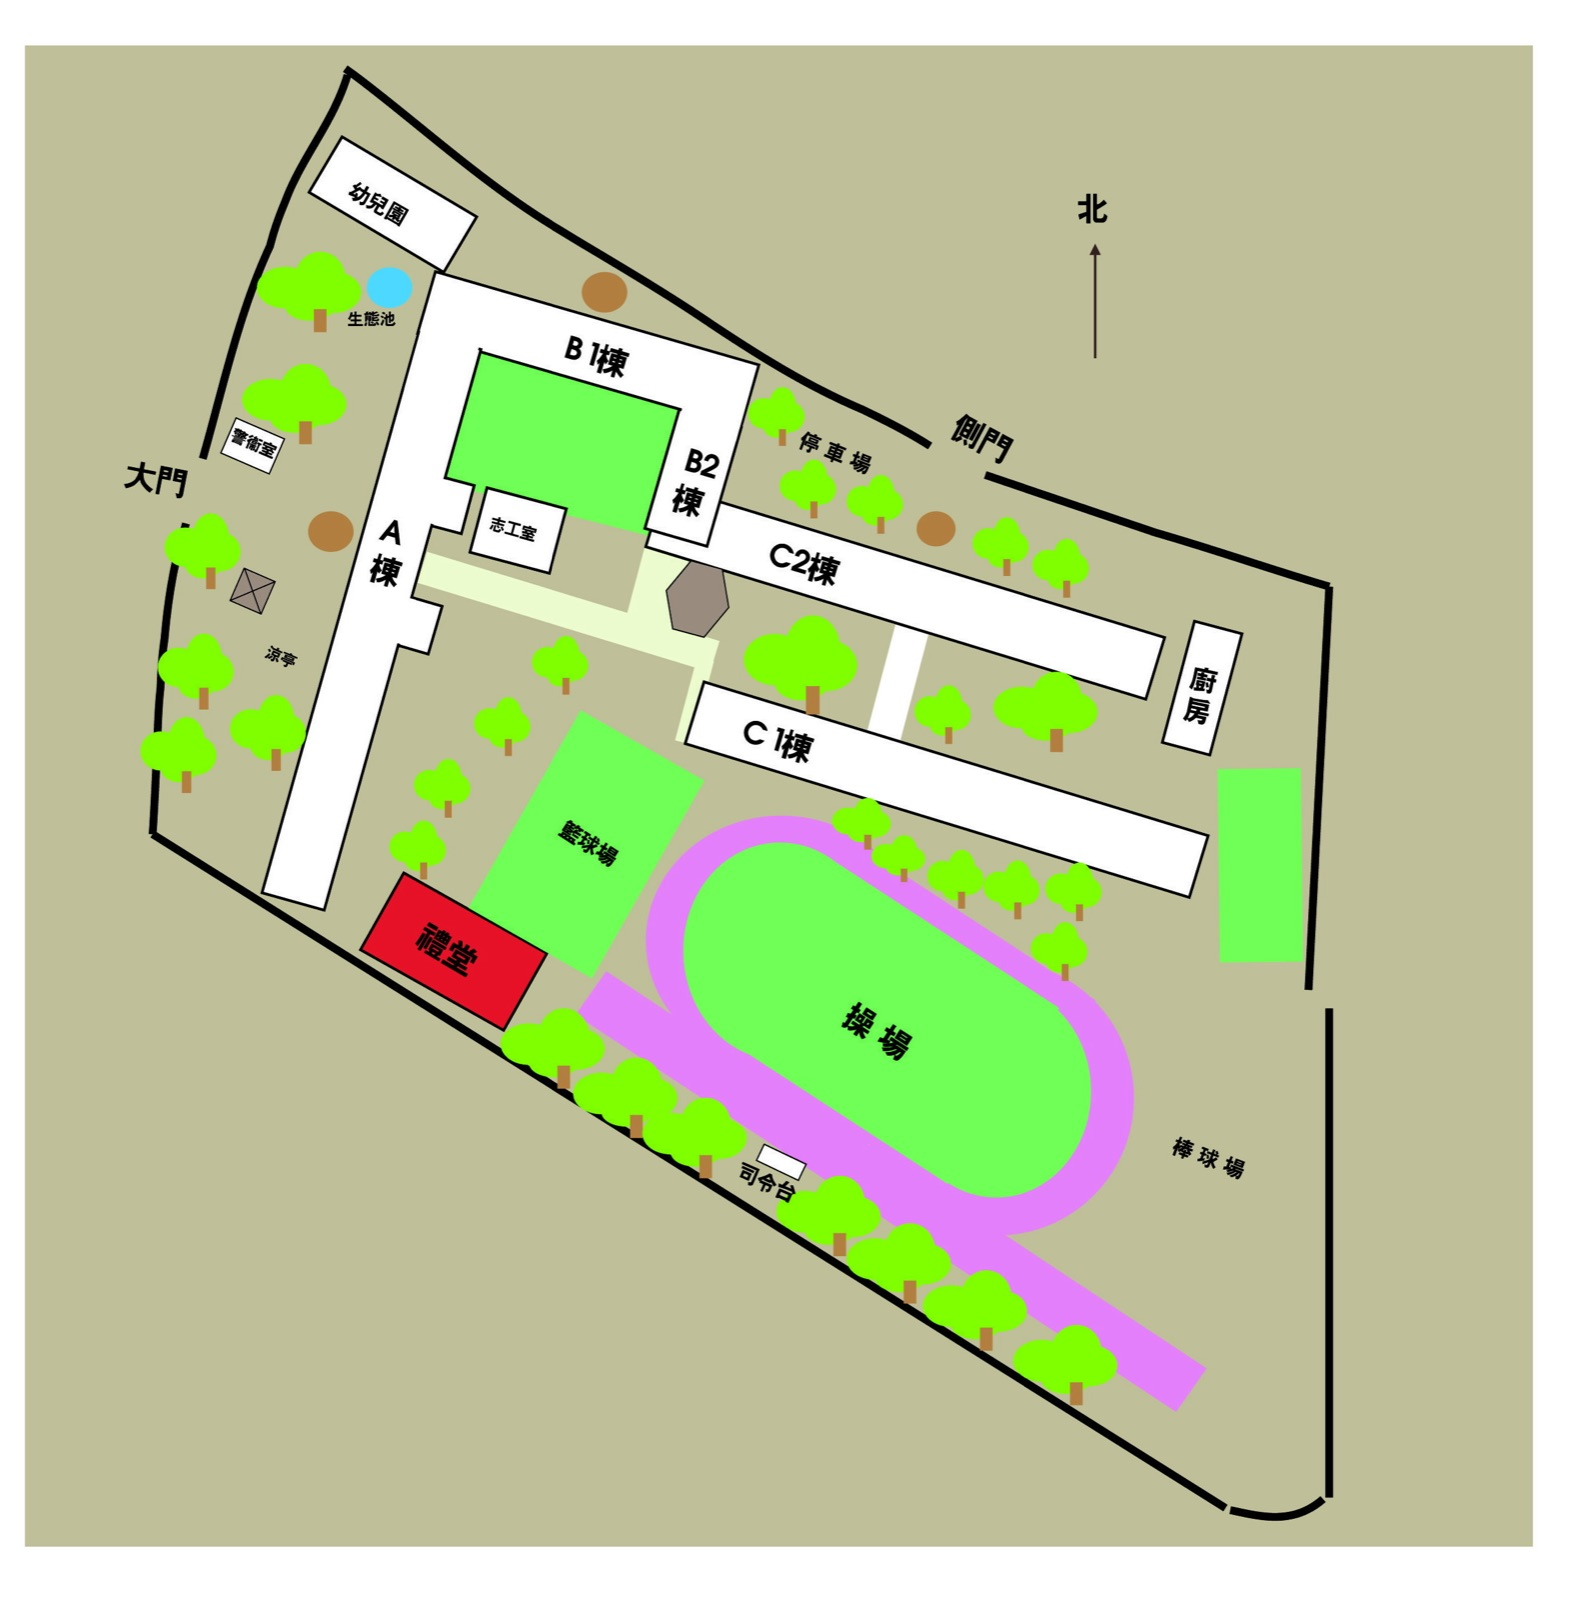
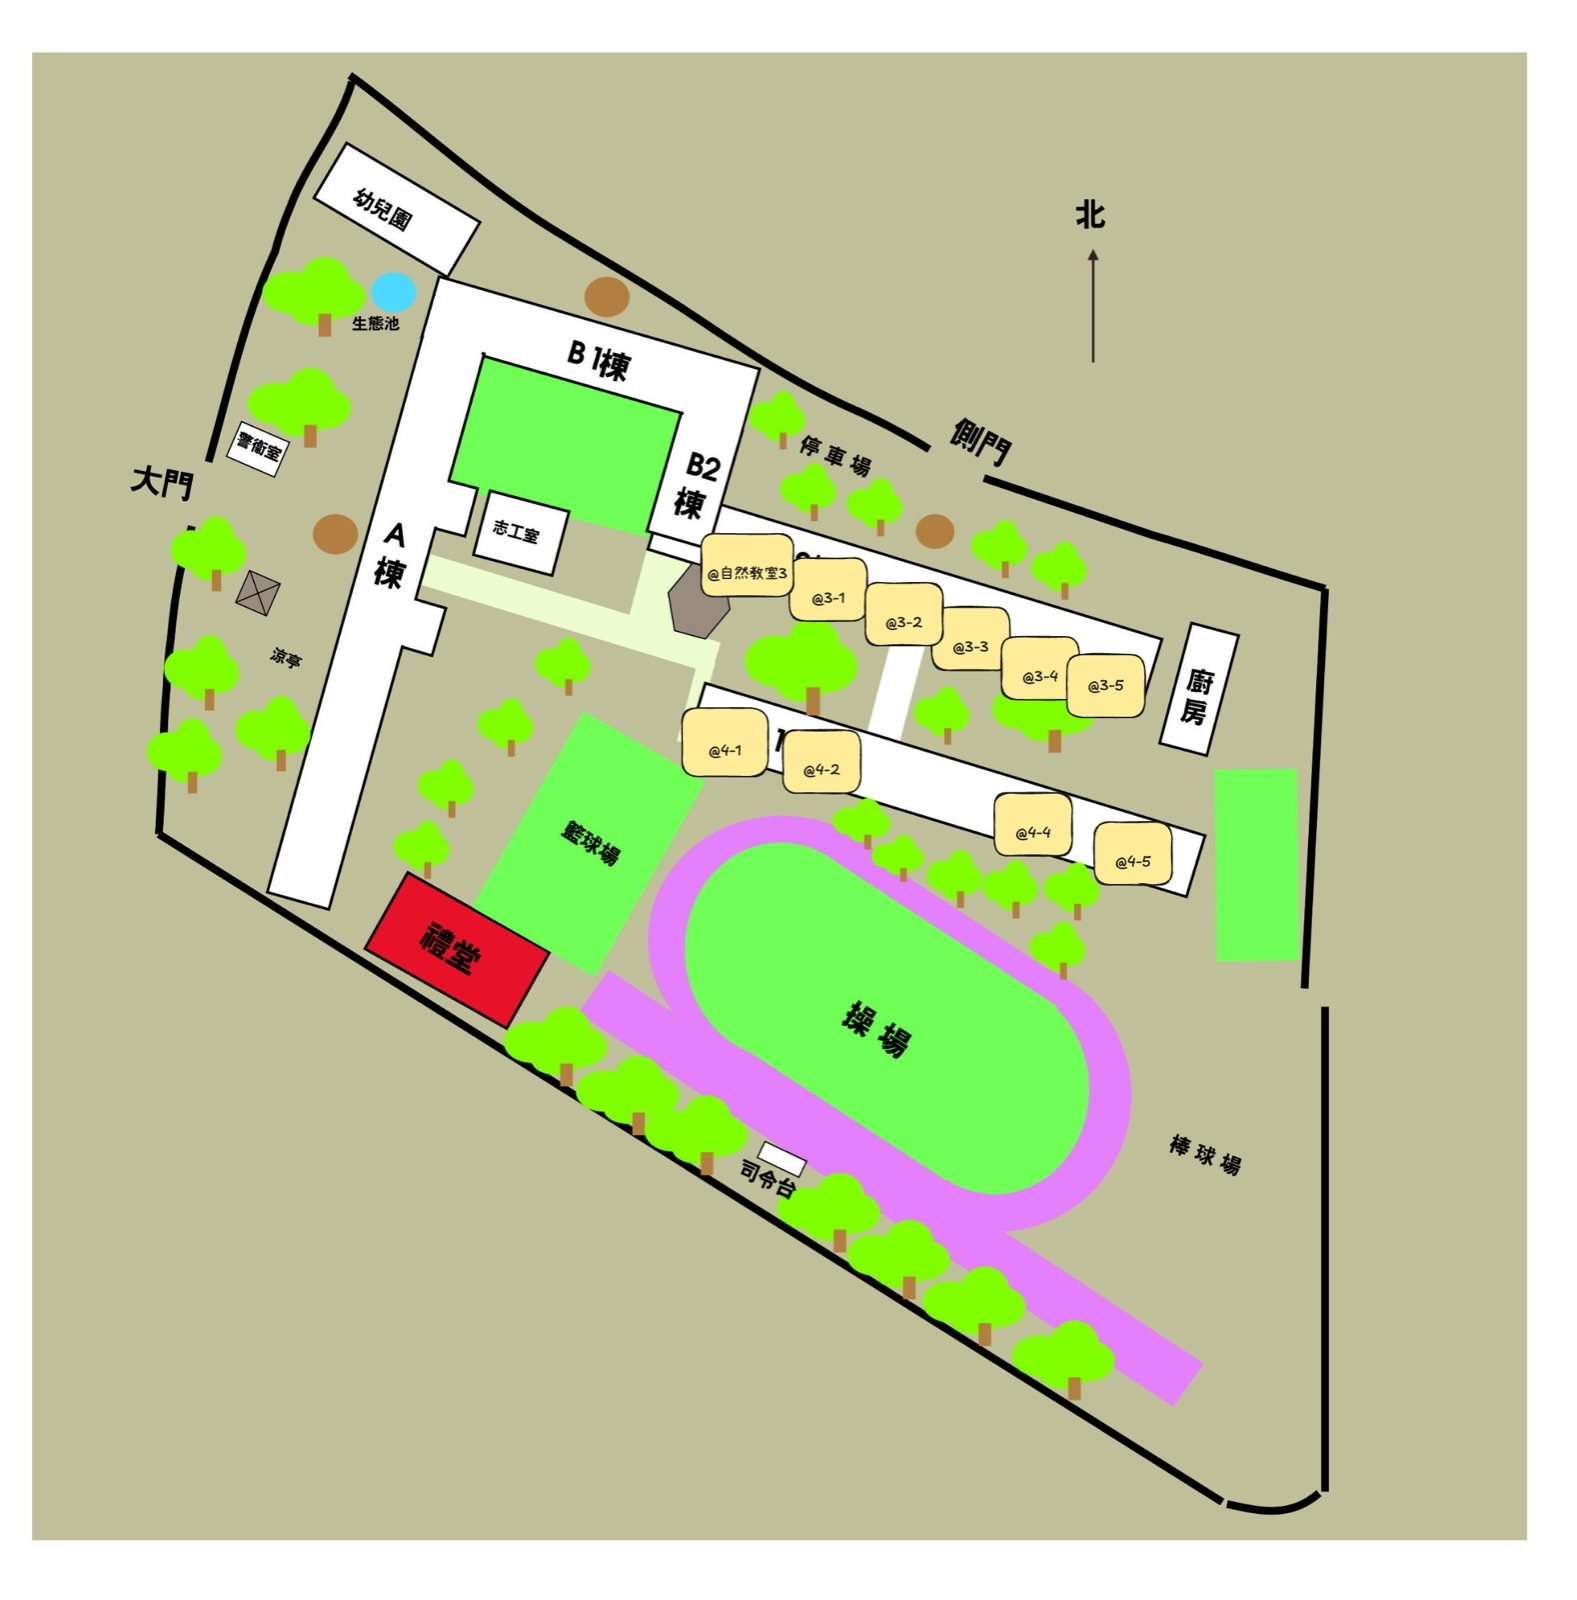
feat(app): 石小場地更新 — 教室對應表改版 + 四張新地圖（1.0.1+25）
- 小組教室：G1 自然教室、G2-6 3-1~3-5、G7-8 4-1/4-2、G9-10 不變（4-3 停用）
- 新版石門國小平面圖/小市集二三（晴+雨備）、水庫教會平面圖重壓進 assets
- 自然教室補英譯 Science Room，石小教室英文模式跟著翻
- by-Day HTML 同步（對應表 + 圖檔改用新檔名）

diff --git a/lib/data/camp_info.dart b/lib/data/camp_info.dart
@@ -31,6 +31,7 @@ class CampGroup {
 
 /// 中文場地/年級 → 英文（groups/maps 畫面共用）。
 const Map<String, String> kVenueEn = {
+  '自然教室': 'Science Room',
   '活動中心（大）': 'Activity Center (L)',
   '活動中心（中）': 'Activity Center (M)',
   '活動中心（小）': 'Activity Center (S)',
@@ -53,7 +54,7 @@ const Map<String, String> kGradeEn = {
 
 const List<CampGroup> kGroups = [
   CampGroup(
-    number: 1, band: '國小', classroom: '3-1', churchVenue: '活動中心（大）',
+    number: 1, band: '國小', classroom: '自然教室', churchVenue: '活動中心（大）',
     coaches: ['周玲玲 Tissa', '湯詠恩 Anthony', 'Joyce Poon（美國同工）'],
     students: [
       CampStudent('曹少驊', 'Eddie', '升小五'),
@@ -65,7 +66,7 @@ const List<CampGroup> kGroups = [
     ],
   ),
   CampGroup(
-    number: 2, band: '國小', classroom: '3-3', churchVenue: '圖書室',
+    number: 2, band: '國小', classroom: '3-1', churchVenue: '圖書室',
     coaches: ['林啟昌 Paul', '田世豪 Steve', 'Jennifer Wong（美國同工）'],
     students: [
       CampStudent('盧宥霖', '', '升小六'),
@@ -77,7 +78,7 @@ const List<CampGroup> kGroups = [
     ],
   ),
   CampGroup(
-    number: 3, band: '國小', classroom: '3-4', churchVenue: '兒童室（外）',
+    number: 3, band: '國小', classroom: '3-2', churchVenue: '兒童室（外）',
     coaches: ['陳貞瑾 Debbie', '陳世惟 Richie', 'Jason Lee（美國同工）'],
     students: [
       CampStudent('吳心睿', 'Zack', '升小六'),
@@ -89,7 +90,7 @@ const List<CampGroup> kGroups = [
     ],
   ),
   CampGroup(
-    number: 4, band: '國小', classroom: '3-5', churchVenue: '活動中心（中）',
+    number: 4, band: '國小', classroom: '3-3', churchVenue: '活動中心（中）',
     coaches: ['葉禮瑋 Leo', '張心樂 Joy', '魏加恩 Luke', 'Elise Chow（美國同工）'],
     students: [
       CampStudent('鍾揚恩', 'Jeremy', '升小五', '不喝牛奶/豆漿'),
@@ -100,7 +101,7 @@ const List<CampGroup> kGroups = [
     ],
   ),
   CampGroup(
-    number: 5, band: '國小', classroom: '5-1', churchVenue: '地下室玻璃屋',
+    number: 5, band: '國小', classroom: '3-4', churchVenue: '地下室玻璃屋',
     coaches: ['鄭安康 Ankang', '隋季庭 Ester', '沈智如 Tina', 'Kay Chow（美國同工）'],
     students: [
       CampStudent('徐浚瀧', 'Gino', '升小五'),
@@ -111,7 +112,7 @@ const List<CampGroup> kGroups = [
     ],
   ),
   CampGroup(
-    number: 6, band: '國小', classroom: '4-1', churchVenue: '青年營地',
+    number: 6, band: '國小', classroom: '3-5', churchVenue: '青年營地',
     coaches: ['黃嘉慶 Eric', '楊文臻 David', '林宛萱 Destiny', '（方睿帆 Jerry）', 'Caleb Leung（美國同工）'],
     students: [
       CampStudent('鍾浩恩', 'Joseph', '升小五'),
@@ -122,7 +123,7 @@ const List<CampGroup> kGroups = [
     ],
   ),
   CampGroup(
-    number: 7, band: '國中', classroom: '4-2', churchVenue: '副堂',
+    number: 7, band: '國中', classroom: '4-1', churchVenue: '副堂',
     coaches: ['楊芳齊 Anna', '陳宥安 Money', 'Anne Leung（美國同工）'],
     students: [
       CampStudent('傅泰晨', 'Chen', '升國一'),
@@ -134,7 +135,7 @@ const List<CampGroup> kGroups = [
     ],
   ),
   CampGroup(
-    number: 8, band: '國中', classroom: '4-3', churchVenue: '兒童室（內）',
+    number: 8, band: '國中', classroom: '4-2', churchVenue: '兒童室（內）',
     coaches: ['張詩平 Timothy', '尹暄旻 Doris', 'Evan Leung（美國同工）'],
     students: [
       CampStudent('張紹真', 'Benjamin', '升國一'),

diff --git a/lib/screens/groups_screen.dart b/lib/screens/groups_screen.dart
@@ -30,6 +30,9 @@ class _GroupCard extends StatelessWidget {
     final venue = L10n.isEn
         ? (kVenueEn[group.churchVenue] ?? group.churchVenue)
         : group.churchVenue;
+    final room = L10n.isEn
+        ? (kVenueEn[group.classroom] ?? group.classroom)
+        : group.classroom;
     return Card(
       margin: const EdgeInsets.only(bottom: 12),
       child: Padding(
@@ -63,8 +66,8 @@ class _GroupCard extends StatelessWidget {
             ),
             const SizedBox(height: 6),
             Text(
-                L10n.t('石小 ${group.classroom} ｜ 水庫 $venue',
-                    'Shimen ES ${group.classroom} | Church: $venue'),
+                L10n.t('石小 $room ｜ 水庫 $venue',
+                    'Shimen ES $room | Church: $venue'),
                 style: const TextStyle(fontSize: 13, color: AppColors.muted)),
             const SizedBox(height: 6),
             Wrap(
